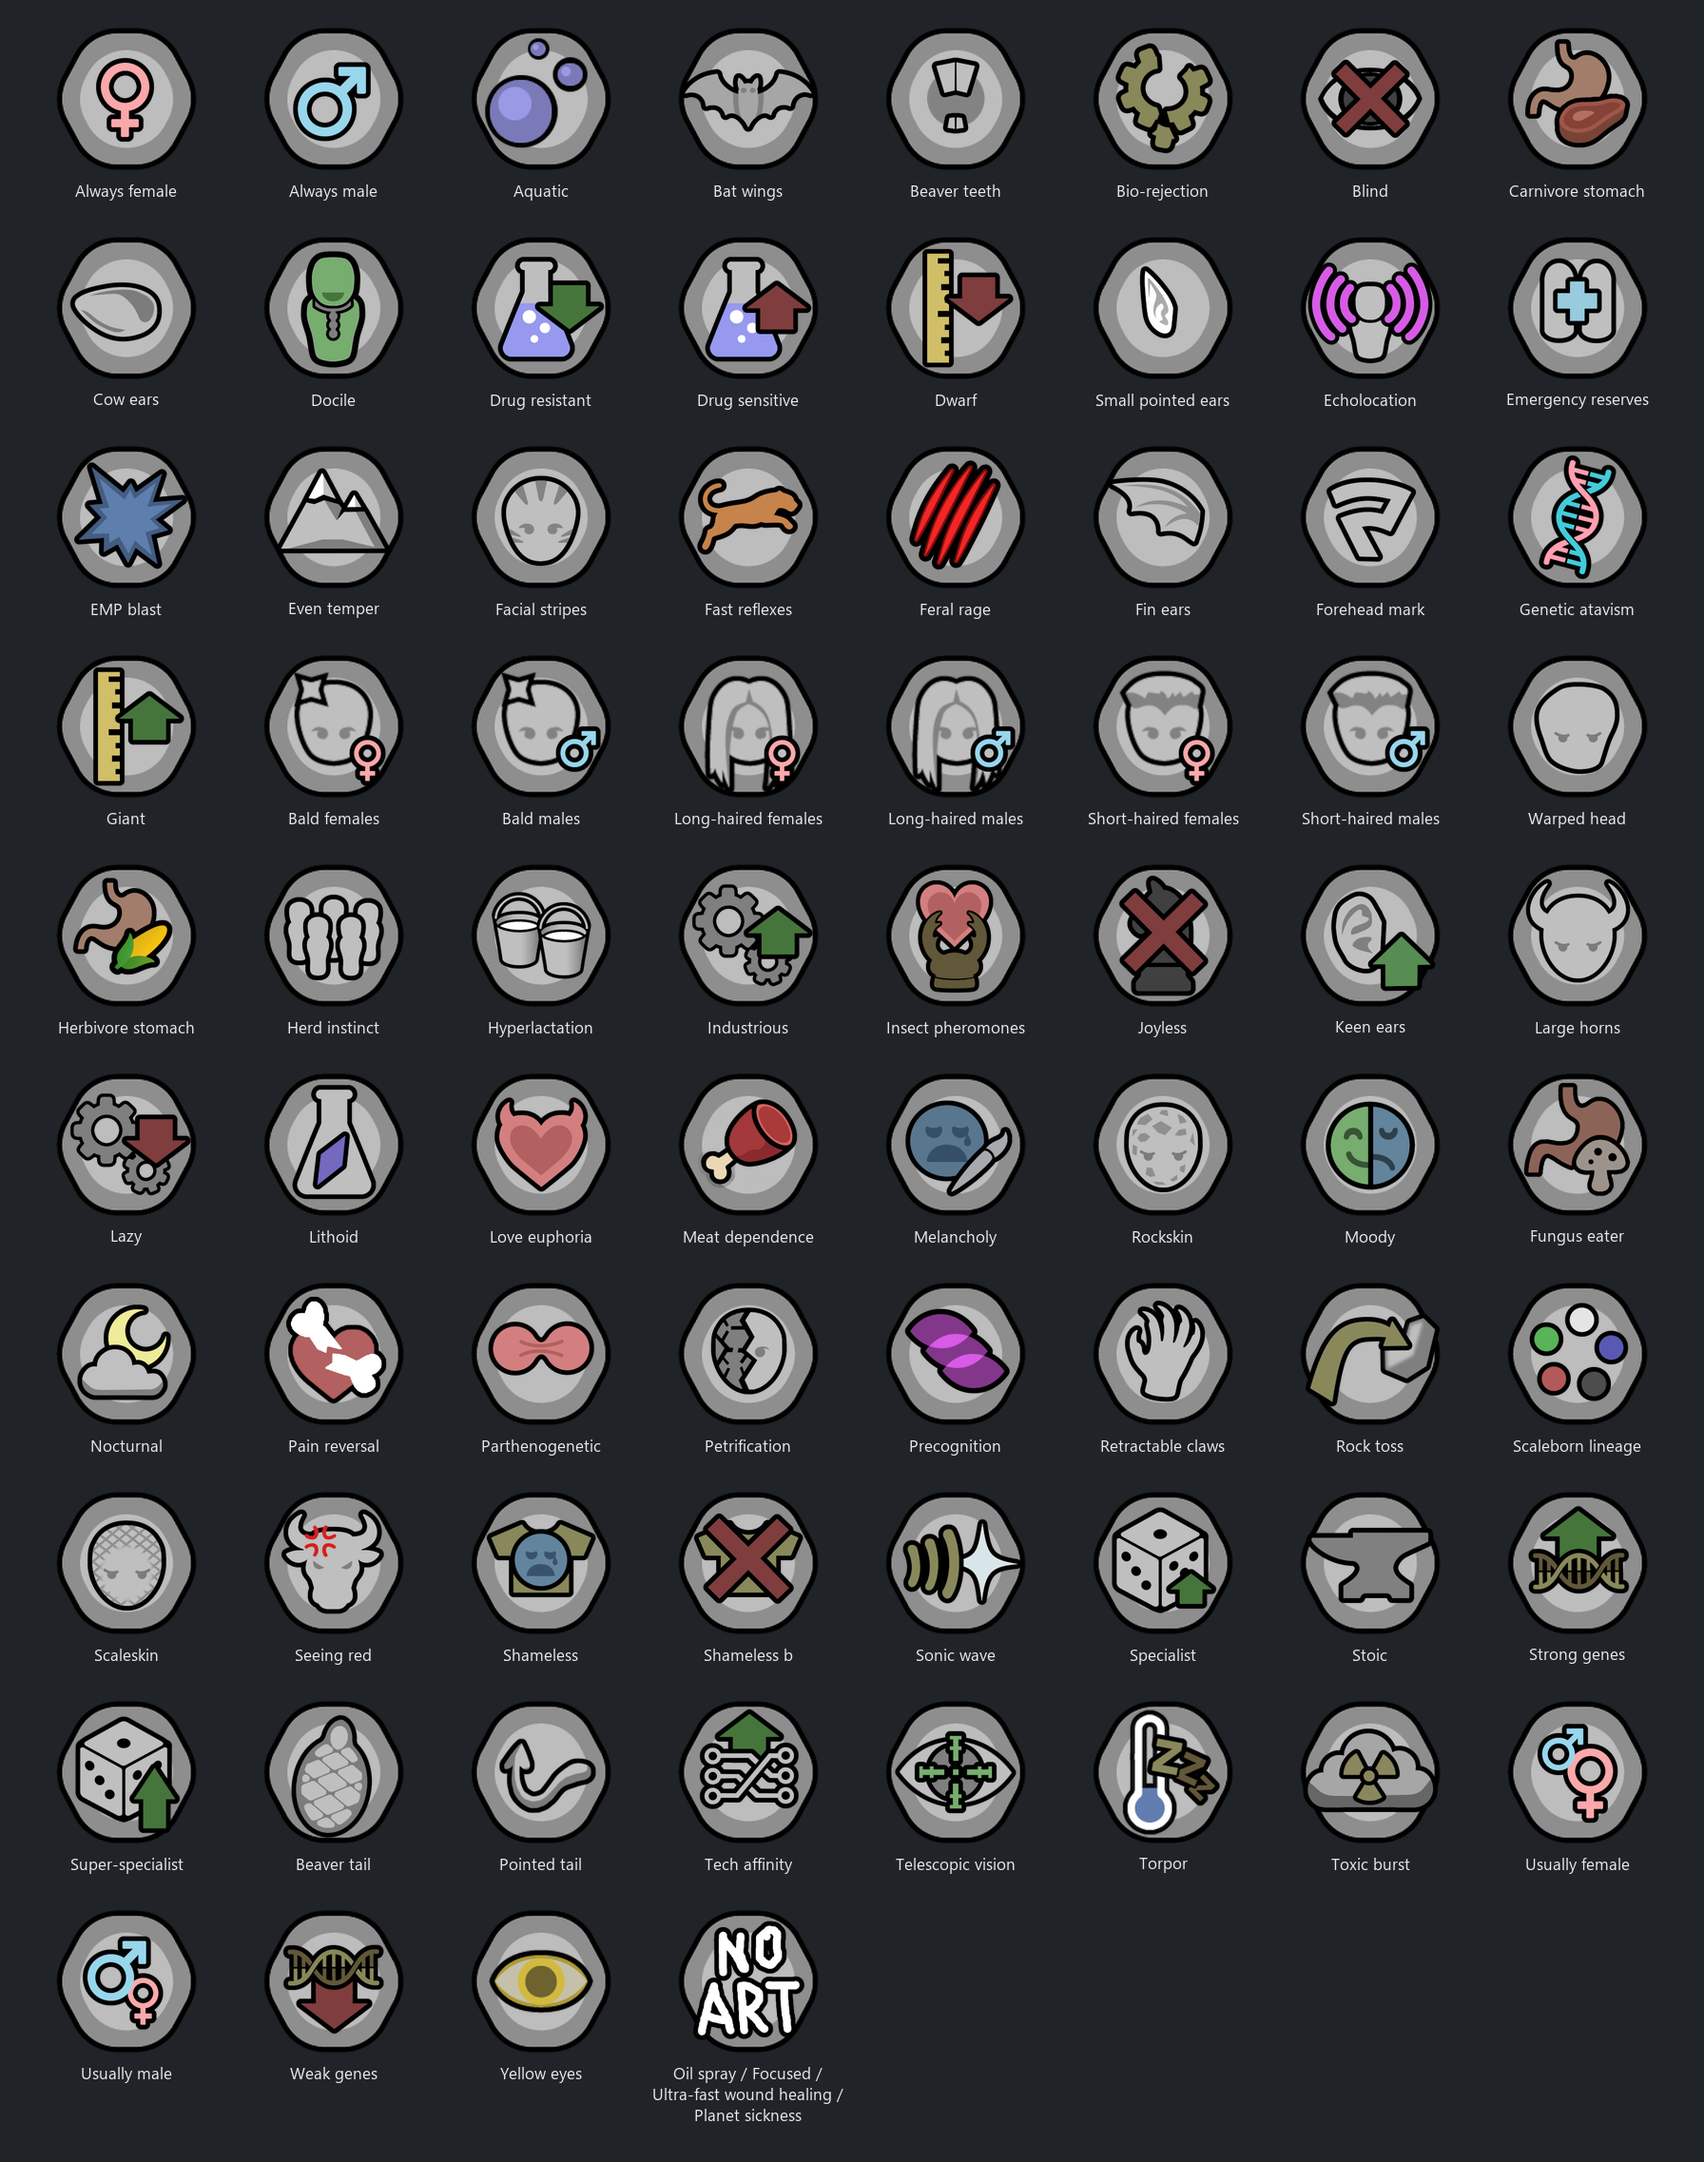
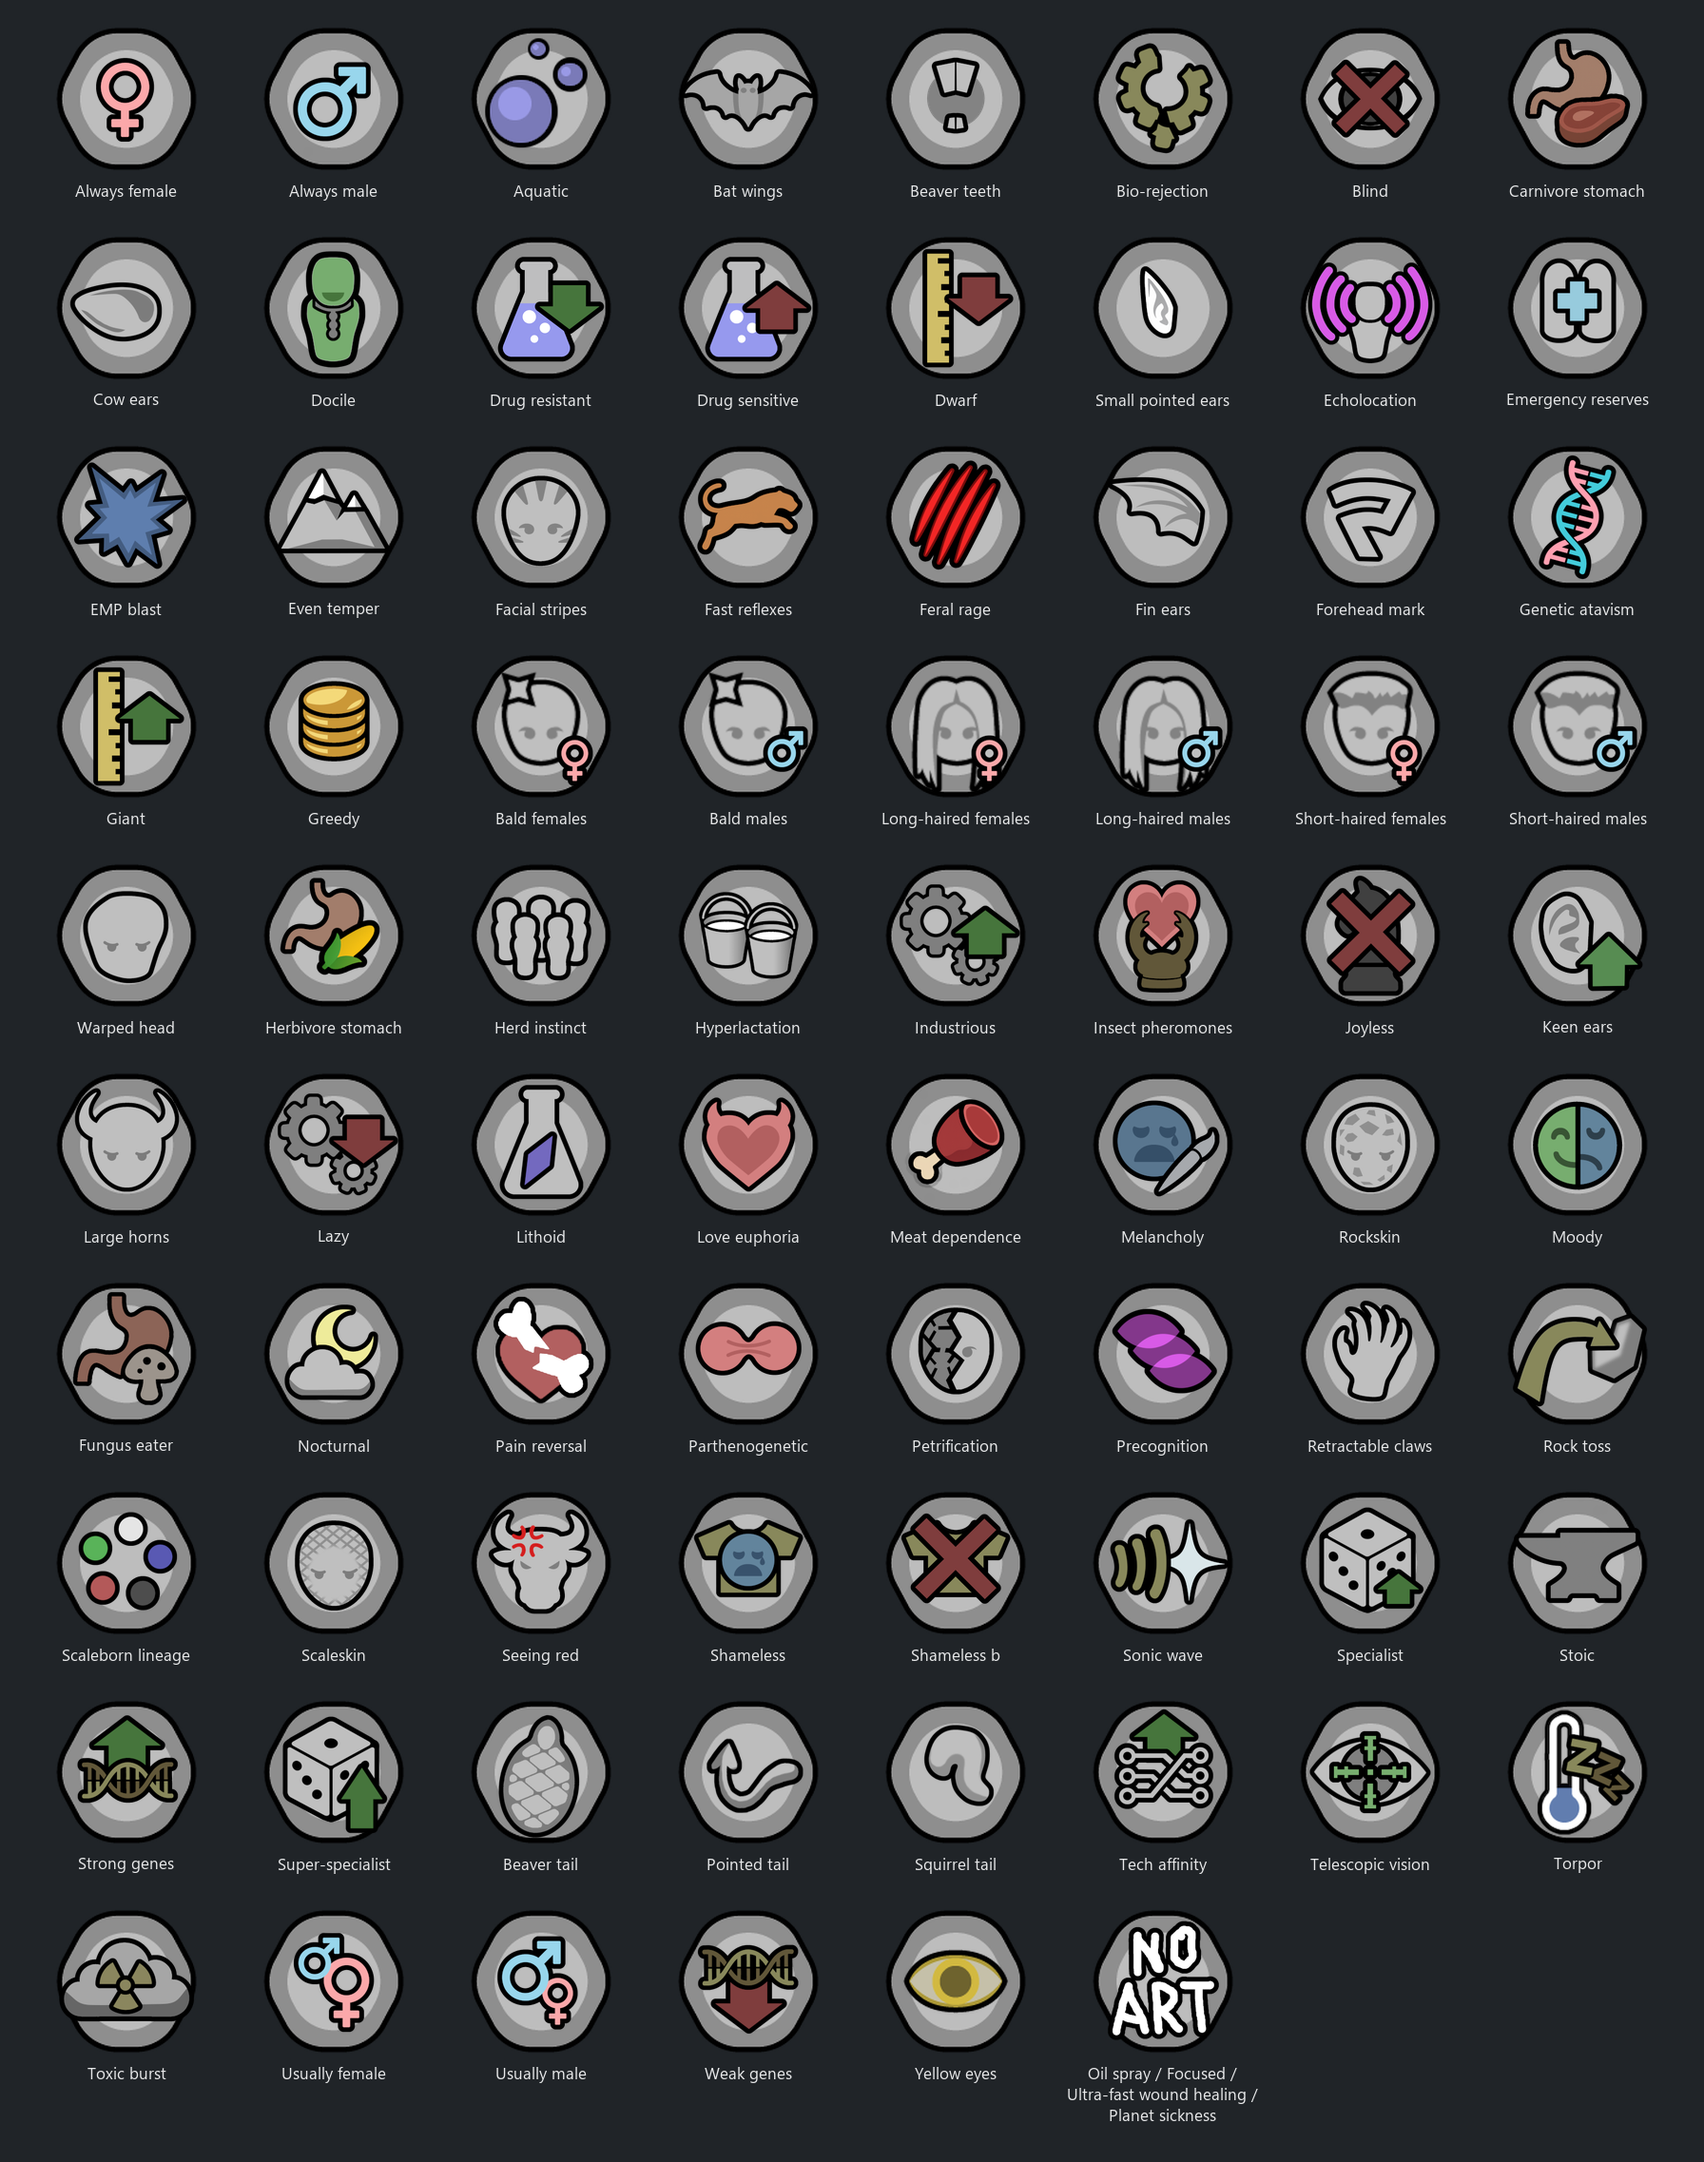
Update README and contact sheet

diff --git a/XylXenos/README.md b/XylXenos/README.md
@@ -247,7 +247,7 @@ On their home planet, omegabeavers build enormous reservoirs to store clean wate
 | Gene | Effect |
 | --- | --- |
 | [Beaver teeth](Defs/GeneDefs/GeneDefs_Miscellaneous.xml) | Doubles tree-cutting speed and bite damage. |
-| [Beaver tail](Defs/GeneDefs/GeneDefs_Miscellaneous.xml) | Extends the comfortable temperature range by 5°C in both directions. |
+| [Beaver tail](Defs/GeneDefs/GeneDefs_Tails.xml) | Extends the comfortable temperature range by 5°C in both directions. |
 | [Dwarf](Defs/GeneDefs/GeneDefs_Body.xml) | A smaller body with slightly slower movement. |
 | [Industrious](Defs/GeneDefs/GeneDefs_Traits.xml) | Works faster. |
 
@@ -272,6 +272,7 @@ On the dino-world Tyrantis V, scaleborn are the dominant predators, pursuing the
 | [Retractable claws](Defs/GeneDefs/GeneDefs_InnateWeapons.xml) | Adds retractable claws as melee weapons. |
 | [Carnivore stomach](Defs/GeneDefs/GeneDefs_Diet.xml) | Gets more nutrition from raw meat and less from plants. Can eat raw meat without the usual raw-food mood penalty or food poisoning. |
 | [Scaleskin](Defs/GeneDefs/GeneDefs_Body.xml) | Scales provide natural protection against sharp and blunt attacks. |
+| [Greedy](Defs/GeneDefs/GeneDefs_Traits.xml) | Grants Greedy: suffers a mood penalty without an impressive bedroom. |
 | [Scaleborn lineage](Defs/GeneDefs/GeneDefs_BonusGenes.xml) | Adds one of the five lineage packages below. |
 
 **Other genes and appearance**
@@ -314,7 +315,7 @@ The succuboid mode of reproduction resembles [gynogenesis](https://en.wikipedia.
 | Gene | Effect |
 | --- | --- |
 | [Word of Love](Defs/GeneDefs/GeneTemplateDefs_Psycasts.xml) | Influences romantic attraction. Requires Royalty, but no psylink. |
-| [Pointed tail](Defs/GeneDefs/GeneDefs_Miscellaneous.xml) | Adds 40 percentage points to social impact. |
+| [Pointed tail](Defs/GeneDefs/GeneDefs_Tails.xml) | Adds 40 percentage points to social impact. |
 | [Bat wings](Defs/GeneDefs/GeneDefs_Miscellaneous.xml) | Allows short flights at the cost of some manipulation. Heavy torso apparel can prevent flight. |
 | [Always female](Defs/GeneDefs/GeneDefs_Reproduction.xml) | Germline carriers are always female. |
 | [Strong genes](Defs/GeneDefs/GeneDefs_Reproduction.xml) | Children inherit the carrier's endogenes when the other parent has a different xenotype, unless both parents have strong genes. |
@@ -342,6 +343,7 @@ These genes are available for custom xenotypes but are not part of the mod's xen
 | [Parthenogenic](Defs/GeneDefs/GeneDefs_Reproduction.xml) | Females can become pregnant without a father. |
 | [Precognition](Defs/GeneDefs/GeneDefs_Miscellaneous.xml) | Improves melee and ranged dodging in proportion to psychic sensitivity. |
 | [Specialist](Defs/GeneDefs/GeneDefs_BonusGenes.xml) | Grants +4 aptitude in a random non-combat skill. |
+| [Squirrel tail](Defs/GeneDefs/GeneDefs_Tails.xml) | Lowers the minimum comfortable temperature by 5°C and grants +3 opinion from other pawns. |
 | [Weak genes](Defs/GeneDefs/GeneDefs_Reproduction.xml) | Children inherit the other parent's endogenes when that parent has a different xenotype, unless both parents have weak genes. |
 | [Ultra-fast wound healing](Defs/GeneDefs/GeneDefs_Miscellaneous.xml) | An archite gene that rapidly heals wounds, but not permanent scars or blood loss. |
 
